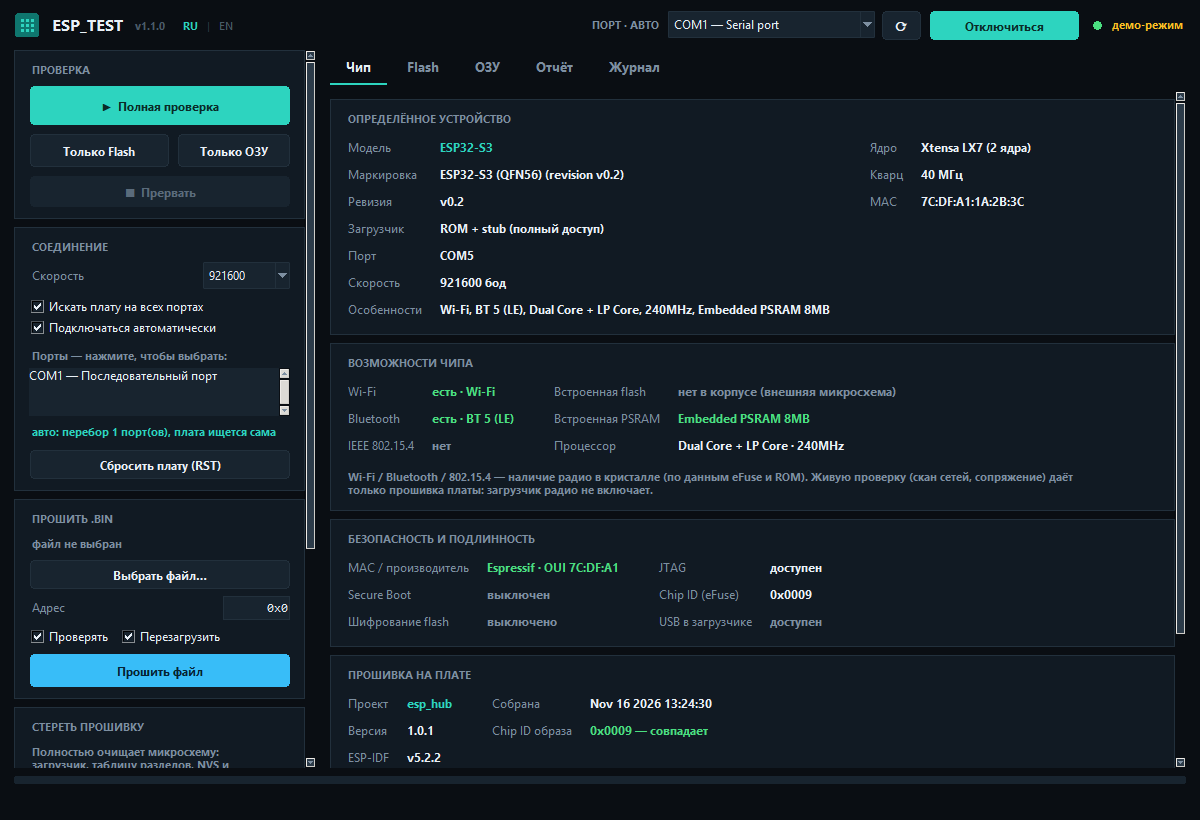
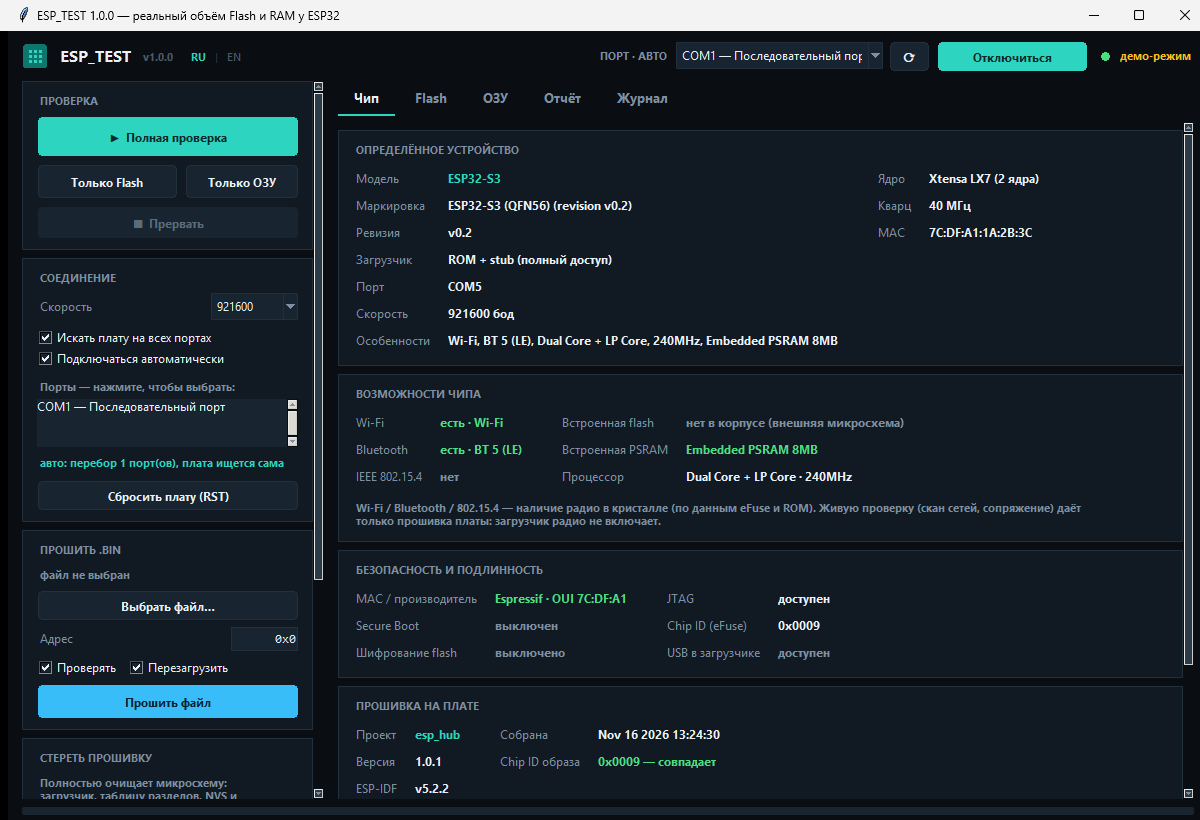
Версия остаётся 1.0.0: английский интерфейс входит в неё же
- version.py, README: 1.1.0 -> 1.0.0 (отдельный релиз не нужен)
- скриншоты пересняты с собранного exe v1.0.0 (RU и EN)

diff --git a/version.py b/version.py
@@ -2,7 +2,7 @@
 """Имя и версия программы — заданы в одном месте."""
 
 APP_NAME = "ESP_TEST"
-__version__ = "1.1.0"
+__version__ = "1.0.0"
 
 # для файлового ресурса Windows (должно быть 4 числа)
 VERSION_TUPLE = tuple(int(x) for x in __version__.split(".")) + (0,) * (4 - len(__version__.split(".")))

diff --git a/README.md b/README.md
@@ -16,7 +16,7 @@ H2, P4, ESP8266): flash и SRAM. Умеет прошивать любой `.bin`
 dist/ESP_TEST.exe
 ```
 
-**Версия:** 1.1.0  
+**Версия:** 1.0.0  
 **Интерфейс:** русский (по умолчанию) и английский — переключатель `RU | EN` в шапке окна.
 
 ![Интерфейс ESP_TEST](screenshot.png)

diff --git a/README.en.md b/README.en.md
@@ -16,7 +16,7 @@ ESP-IDF are not required on the machine.
 dist/ESP_TEST.exe
 ```
 
-**Version:** 1.1.0  
+**Version:** 1.0.0  
 **Interface:** Russian (default) and English — switch with the `RU | EN` toggle in the window header.
 
 ![ESP_TEST interface](screenshot_en.png)
